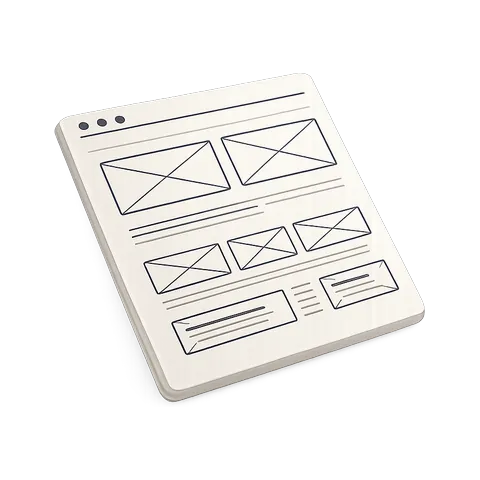
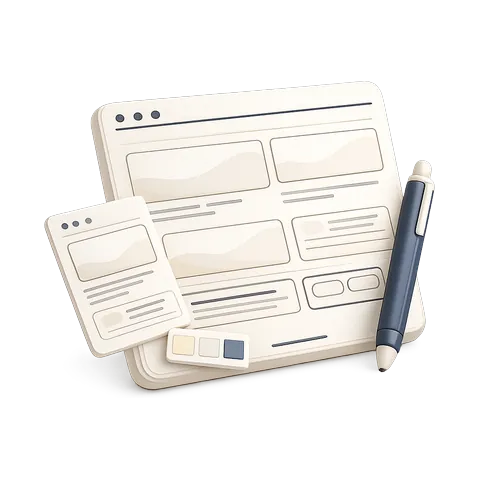
Update the custom design and redesign artwork
Swaps in the two replacement renders. Custom design becomes layered browser
windows with a pen and swatches, which reads as design work rather than the
plain wireframe it was. Redesigns gets the reworked phone.

Only these two move to ?v=3; the other four stay at ?v=2 so browsers are not
made to re-download artwork that did not change.

Both went through the same pipeline as the rest of the set, so all six still
carry matching visual mass on a card. Superseded originals move to
source/archive/ as *-navy-v1-original.png.

Also removes .sheet-new.png, a scratch contact sheet I let git add -A sweep
into the previous commit, and gitignores that pattern so it cannot recur.

Changed region(s): [[0.0938, 0.1875, 0.9062, 0.8438]]

diff --git a/services.html b/services.html
@@ -127,7 +127,7 @@
           <h3>Custom design</h3>
           <p>Every site starts with your work, not a template. I design around who you serve and what they need to find, so the layout, wording, and imagery all point the same direction.</p>
           </div>
-          <img class="svc-art" src="img/services/custom-design.webp?v=2" alt="" width="480" height="480" loading="lazy" decoding="async"/>
+          <img class="svc-art" src="img/services/custom-design.webp?v=3" alt="" width="480" height="480" loading="lazy" decoding="async"/>
         </a>
         <a class="svc" href="websites.html">
           <div class="svc-copy">
@@ -135,7 +135,7 @@
           <h3>Redesigns &amp; refreshes</h3>
           <p>An aged site rarely needs starting from nothing. I rebuild what's there so it looks current and works properly on phones, keeping the pages and search history that already work.</p>
           </div>
-          <img class="svc-art" src="img/services/redesign.webp?v=2" alt="" width="480" height="480" loading="lazy" decoding="async"/>
+          <img class="svc-art" src="img/services/redesign.webp?v=3" alt="" width="480" height="480" loading="lazy" decoding="async"/>
         </a>
         <a class="svc" href="websites.html">
           <div class="svc-copy">

diff --git a/index.html b/index.html
@@ -172,7 +172,7 @@
             <h3>Custom design</h3>
             <p>A clean, modern site designed around your business and the people you want to reach.</p>
           </div>
-          <img class="svc-art" src="img/services/custom-design.webp?v=2" alt="" width="480" height="480" loading="lazy" decoding="async"/>
+          <img class="svc-art" src="img/services/custom-design.webp?v=3" alt="" width="480" height="480" loading="lazy" decoding="async"/>
         </a>
         <a class="svc" href="websites.html">
           <div class="svc-copy">
@@ -180,7 +180,7 @@
             <h3>Redesigns &amp; refreshes</h3>
             <p>An outdated site rebuilt so it looks current and works properly on phones.</p>
           </div>
-          <img class="svc-art" src="img/services/redesign.webp?v=2" alt="" width="480" height="480" loading="lazy" decoding="async"/>
+          <img class="svc-art" src="img/services/redesign.webp?v=3" alt="" width="480" height="480" loading="lazy" decoding="async"/>
         </a>
         <a class="svc" href="websites.html">
           <div class="svc-copy">
